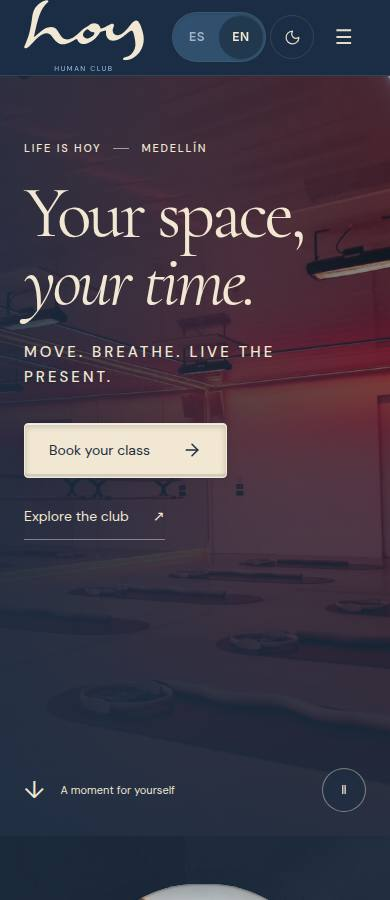
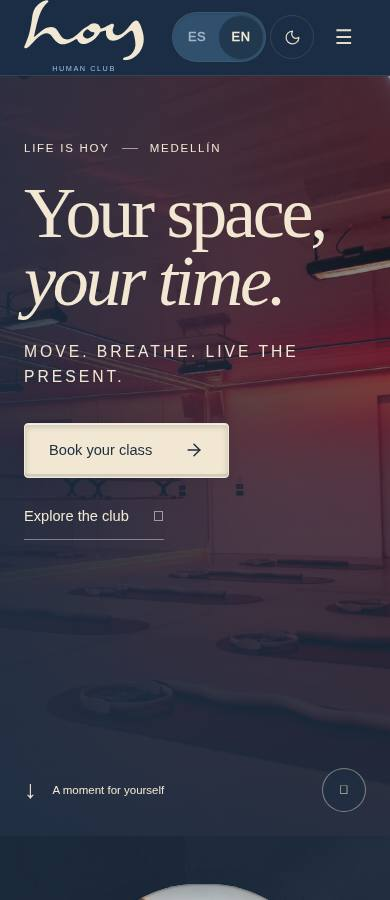
test: recover accurate hero capture evidence on current release
W-01: reset and assert language/theme for all 19 cases; preserve v0.25.0.

diff --git a/docs/changelog/0073-hero-capture-recovery.md b/docs/changelog/0073-hero-capture-recovery.md
@@ -1,0 +1,15 @@
+version: 0.25.0
+date: 2026-10-21
+prompt: docs/prompts/0073-hero-capture-recovery.md
+intent: Complete PR44 against current main with truthful screenshot evidence.
+decision: Reset English/light storage and assert document language/theme for every capture; regenerate the 19-case report.
+rejected: Merging stale package metadata or treating historical CI as current-head verification.
+files: scripts/test-studio-hero.mjs; docs/screenshots/W-01/studio-*; docs/pages/W-01.md; docs/kanban.md; docs/prompts/0073-hero-capture-recovery.md
+
+# W-01 capture release receipt
+
+Source baseline and rollback: `6354f5978baa5689c22d15a411433575d609d8a5` (v0.25.0, PR50 already released). This QA-only change preserves package metadata and release provenance generation.
+
+Regenerated [344](../screenshots/W-01/studio-latest-en-344.jpg), [768](../screenshots/W-01/studio-latest-en-768.jpg), [3840](../screenshots/W-01/studio-latest-en-3840.jpg) English/light captures and [19-case report](../screenshots/W-01/studio-hero-qa.json). Existing historical misleading images remain available from the rollback commit.
+
+Verification: local production build, fresh/cached clock regressions, nine sample routes and all 19 hero cases passed. Tablet capture visually inspected. Remaining photography/cached-navigation and exact-head CI pending. Merge and exact deployment evidence will be appended after checks complete. No runtime website change or private upload.

diff --git a/docs/pages/W-01.md b/docs/pages/W-01.md
@@ -128,3 +128,12 @@ Latest (the bare `/site` URL) and the selectable Photos edition now use the same
 ![English regular hero, desktop](../screenshots/W-01/studio-latest-en-1280.jpg)
 ![Spanish photo-edition hero, mobile](../screenshots/W-01/studio-photos-es-390.jpg)
 ![English photo-edition hero, desktop](../screenshots/W-01/studio-photos-en-1280.jpg)
+
+
+## Capture theme evidence correction · 0069
+
+The three extra-width files below are explicitly English/light captures, with document language/theme asserted after reset and reload. Earlier versions inherited the matrix's final dark state despite omitting the dark filename suffix. The bilingual 390/1280 matrix also asserts its actual language/theme. This corrects test evidence without changing the website.
+
+![English light, narrow 344](../screenshots/W-01/studio-latest-en-344.jpg)
+![English light, tablet 768](../screenshots/W-01/studio-latest-en-768.jpg)
+![English light, wide 3840](../screenshots/W-01/studio-latest-en-3840.jpg)

diff --git a/docs/prompts/0073-hero-capture-recovery.md b/docs/prompts/0073-hero-capture-recovery.md
@@ -1,0 +1,11 @@
+# Hero capture recovery
+
+Source: direct delegation, 2026-10-21.
+
+## Prompt
+
+PR44 https://github.com/imagine-os/hoy/pull/44 is the smallest next change: screenshot extra-width loop inherits dark theme while labeling captures English/light. Main still has this fault. Correct assertions/reset, regenerate captures/19-case report, integrate onto current main without stale version bump. Historical Photography QA38819823902 passed but rerun exact current head.
+
+## Response
+
+Applied the preserved test correction on main 6354f5978baa5689c22d15a411433575d609d8a5. Reset and assert actual language/theme before captures. Preserve v0.25.0 and release SHA generation. See the release receipt for verification status.

diff --git a/docs/kanban.md b/docs/kanban.md
@@ -1,5 +1,9 @@
 # HoyOS kanban
 
+## Completed · 0073 (v0.25.0 · 2026-10-21)
+
+- W-01: recover PR44 capture theme reset and assertions on current main; regenerate the 19-case hero report. [Release receipt](changelog/0073-hero-capture-recovery.md)
+
 ## Cloud release recovery · 0072 (2026-10-21)
 
 - Source main 4c90a67, v0.24.5. Integrating preserved inactive-calendar and class-management requests in an isolated recovery branch. Newer settings requirements need the preserved checkpoint or exact text; no inferred changes. [Release record](changelog/0072-cloud-release-recovery.md)
